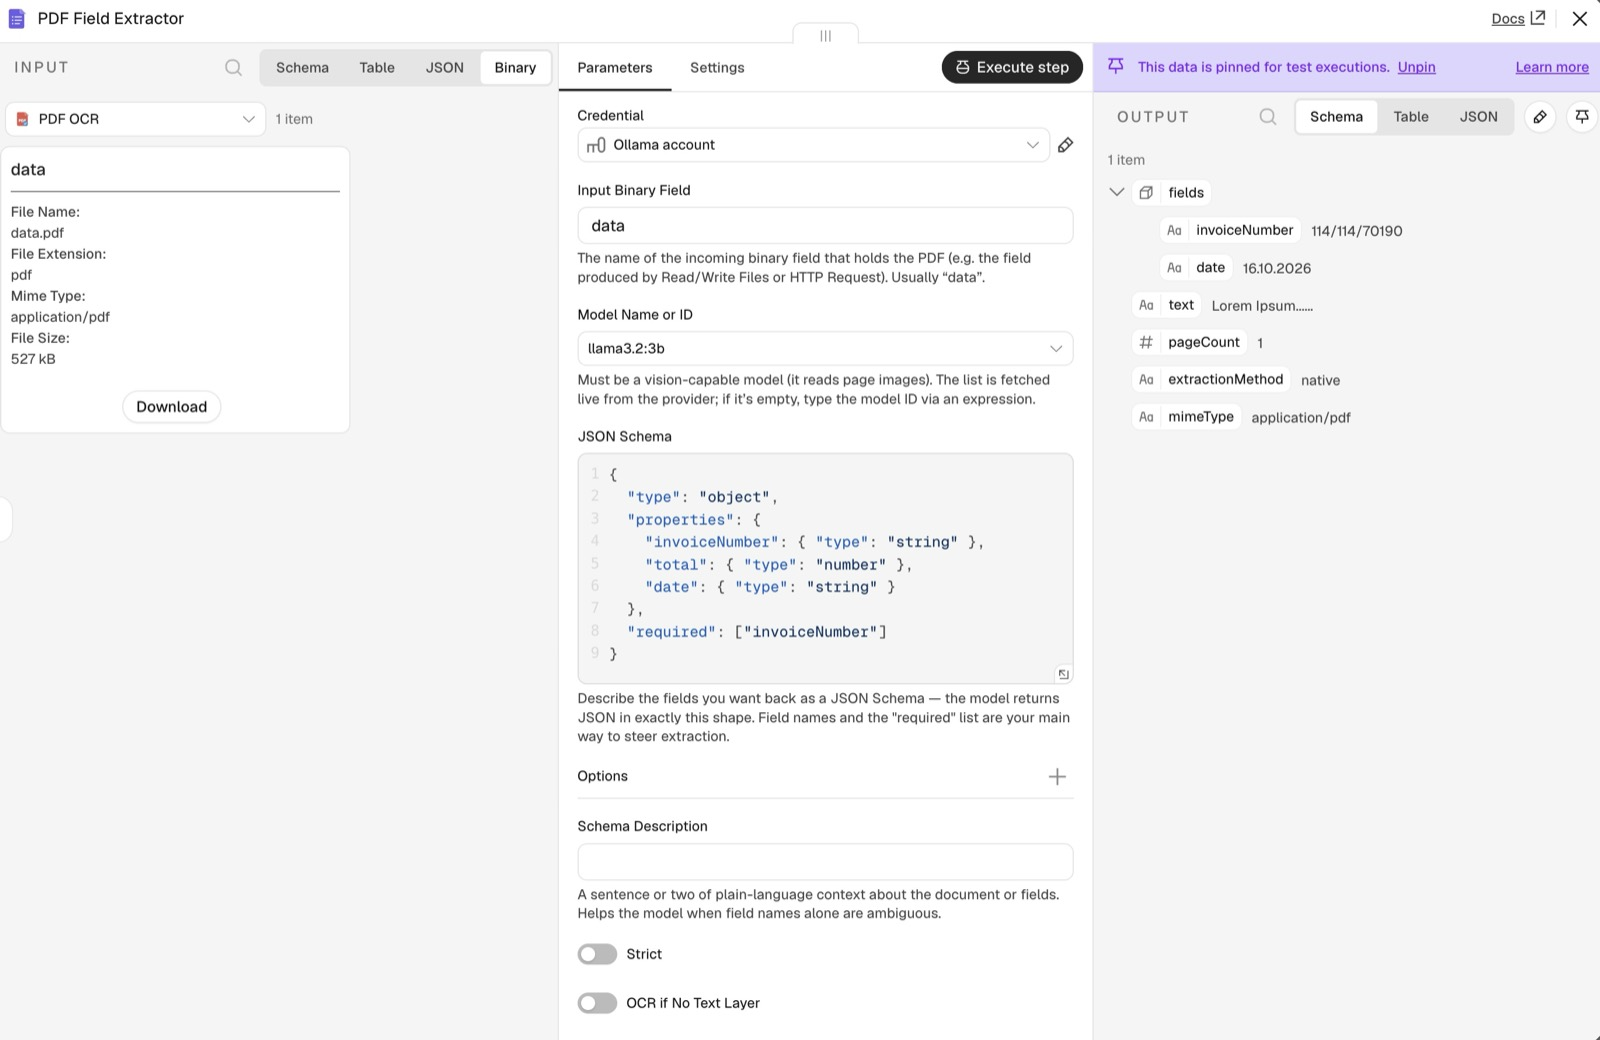
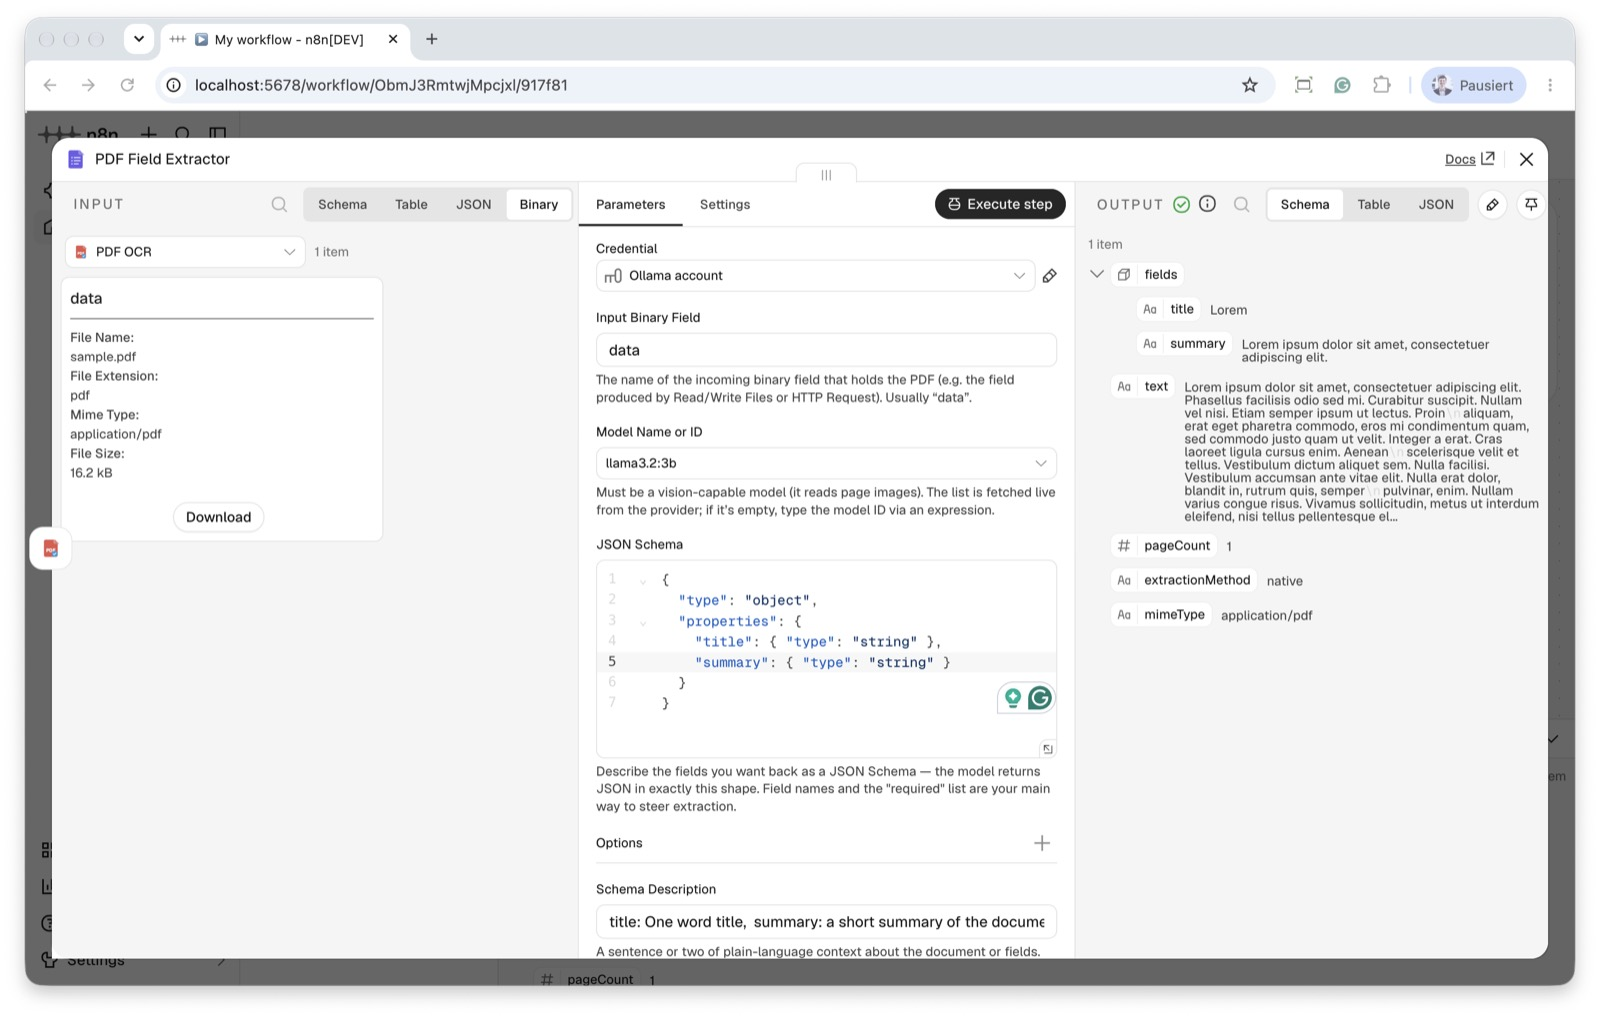
Add remaining screenshots and align example workflow
- Add nodes-panel (OCR + Field Extractor), workflow-canvas screenshots;
  refresh the two node-config shots (all resized to 1600px wide).
- README: embed both panel shots side by side, point the canvas caption
  and Quick Start at the HTTP Request source the example now uses.
- example-workflow.json: re-exported to match the screenshots
  (Manual Trigger -> HTTP Request -> PDF OCR -> PDF Field Extractor).
  Rewrote dev-instance CUSTOM.* node types to the published
  n8n-nodes-xberg-pdf-vlm-extractor.* types, and stripped the
  dev credential IDs + instance metadata so it imports cleanly for
  anyone installing the package.

Changed region(s): [[0.0, 0.0, 1.0, 0.9745], [0.1875, 0.1827, 0.2188, 0.2741], [0.125, 0.4872, 0.1562, 0.5177]]

diff --git a/README.md b/README.md
@@ -14,13 +14,17 @@ Both nodes let you pick an LLM **provider** — **Ollama** (local), **OpenAI**, 
 
 > **Self-hosted only.** This package has a runtime dependency (`@xberg-io/xberg` ships platform-specific native binaries), so it is **not eligible for n8n Cloud verification**. It installs and runs on self-hosted n8n.
 
-![The two nodes in the n8n nodes panel](docs/img/nodes-panel.png)
+Both nodes show up in the n8n **nodes panel** — search "PDF":
+
+| PDF OCR | PDF Field Extractor |
+| --- | --- |
+| ![PDF OCR in the n8n nodes panel](docs/img/nodes-panel-ocr.png) | ![PDF Field Extractor in the n8n nodes panel](docs/img/nodes-panel-extractor.png) |
 
 ## How the two nodes fit together
 
 ```
-Read/Write Files ──▶ PDF OCR ──▶ PDF Field Extractor ──▶ …
- (scanned PDF)      (searchable PDF)   (structured JSON)
+PDF source ──▶ PDF OCR ──▶ PDF Field Extractor ──▶ …
+(disk / HTTP)  (searchable PDF)   (structured JSON)
 ```
 
 - **Scanned / image-only PDF?** Run **PDF OCR** first. Its output is a searchable PDF, so any downstream node — including **PDF Field Extractor** — can read the text without OCR'ing again.
@@ -32,9 +36,9 @@ The two steps are fully independent — use either on its own.
 ## Quick start
 
 1. **Install** the package in your self-hosted n8n (see [Installation](#installation)).
-2. **Import the example workflow:** in n8n, open a new workflow → **⋯ menu → Import from File** and pick [`docs/example-workflow.json`](docs/example-workflow.json) (or copy its contents and paste onto the canvas). It wires up **Read PDF from Disk → PDF OCR → PDF Field Extractor**.
+2. **Import the example workflow:** in n8n, open a new workflow → **⋯ menu → Import from File** and pick [`docs/example-workflow.json`](docs/example-workflow.json) (or copy its contents and paste onto the canvas). It wires up **Manual Trigger → HTTP Request → PDF OCR → PDF Field Extractor** — the **HTTP Request** node fetches a sample PDF, so it runs with no file on the n8n host. (Swap in **Read/Write Files from Disk** if you'd rather read a local PDF.)
 3. **Create an Ollama credential** (**Settings → Credentials → New → Ollama**, Base URL `http://localhost:11434`) and select it on both nodes. Swap in OpenAI/Anthropic/Gemini if you prefer — see [Providers & credentials](#providers--credentials).
-4. Point **Read PDF from Disk** at a PDF, pick a **vision-capable model** from the dropdown, and run.
+4. Pick a **vision-capable model** from the dropdown on each node and run.
 
 ![The example workflow on the canvas](docs/img/workflow-canvas.png)
 

diff --git a/docs/SCREENSHOTS.md b/docs/SCREENSHOTS.md
@@ -9,8 +9,9 @@ relevant panel (no OS chrome), export as PNG, keep width ≤ 1600px.
 
 | Filename | Status | What to capture |
 | --- | --- | --- |
-| `nodes-panel.png` | ⬜ todo | The n8n **nodes panel** with "pdf" typed in search, showing **PDF OCR** and **PDF Field Extractor** with the package icon. Shows the icons + that both nodes are discoverable. |
-| `workflow-canvas.png` | ⬜ todo | The imported example workflow on the canvas: **Read PDF from Disk → PDF OCR → PDF Field Extractor**. (Import `docs/example-workflow.json` first.) |
+| `nodes-panel-ocr.png` | ✅ added | The n8n **nodes panel** with "PDF" typed in search, showing **PDF OCR** with its description. |
+| `nodes-panel-extractor.png` | ✅ added | The n8n **nodes panel** with "PDF Field Extractor" typed in search, showing that node with its description. |
+| `workflow-canvas.png` | ✅ added | The example workflow on the canvas: **Execute Workflow → HTTP Request → PDF OCR → PDF Field Extractor**. |
 | `pdf-ocr-config.jpg` | ✅ added | The **PDF OCR** node open, showing Provider = Ollama, a Model chosen from the dropdown, and **Replace Existing Text Layer** on. |
 | `field-extractor-config.jpg` | ✅ added | The **PDF Field Extractor** node open, showing the **JSON Schema** field with the invoice schema and the **Options → Schema Description**. |
 
